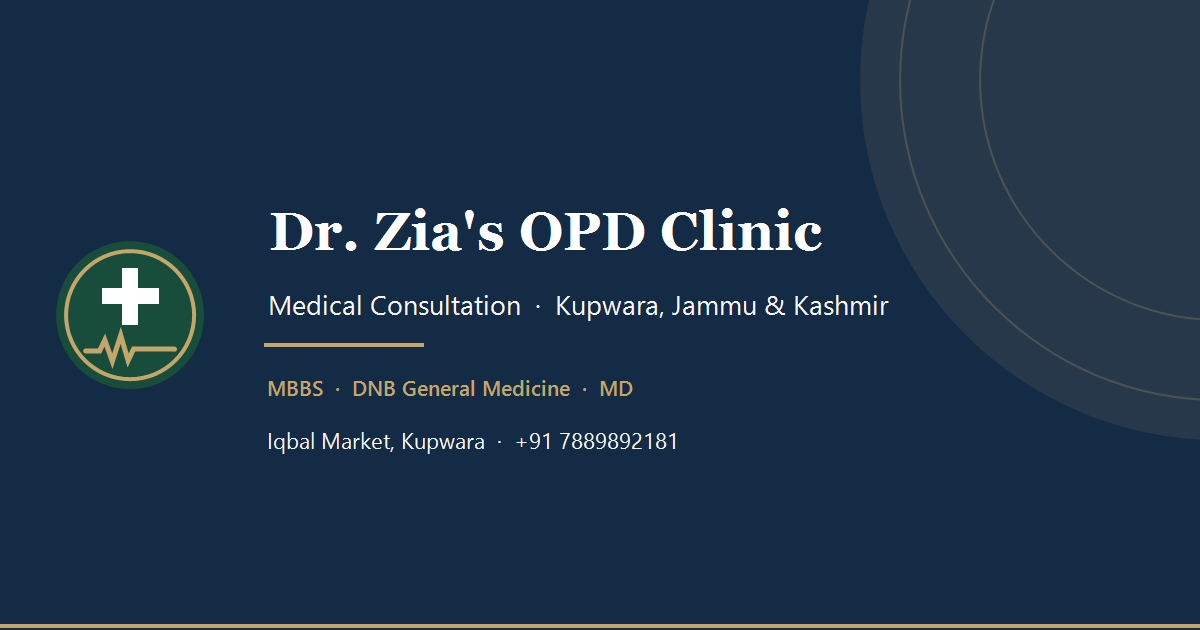
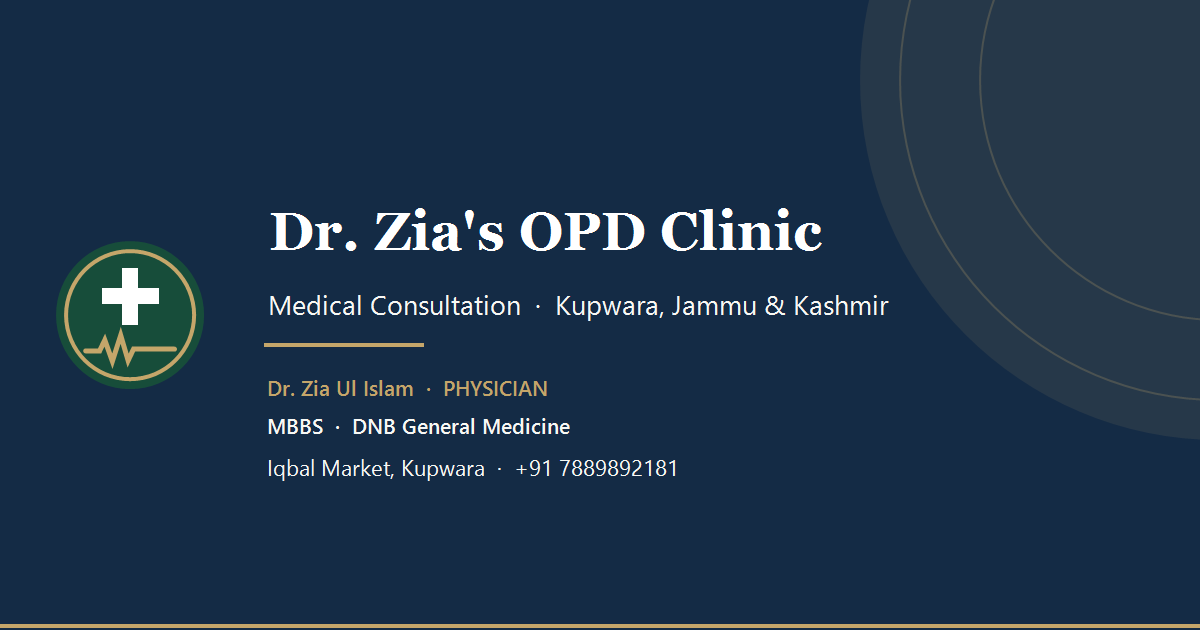
Doctor corrections: PHYSICIAN designation, MBBS | DNB General Medicine (MD removed), 7-day OPD schedule with Thu/Fri OFF, real clinic photo

Changed region(s): [[0.2158, 0.6635, 0.555, 0.754], [0.2158, 0.6032, 0.5242, 0.6333]]

diff --git a/src/components/OPDSchedule.tsx b/src/components/OPDSchedule.tsx
@@ -21,15 +21,15 @@ const periodIcon: Record<SessionPeriod, typeof Sunrise> = {
 };
 
 const chipTone: Record<SessionPeriod, string> = {
-  morning: 'bg-forest/10 text-forest',
-  evening: 'bg-navy/10 text-navy-soft',
-  day: 'bg-gold/25 text-[#8a6d33]',
+  morning: 'bg-forest/15 text-forest',
+  evening: 'bg-forest/15 text-forest',
+  day: 'bg-forest/15 text-forest',
 };
 
 const iconTone: Record<SessionPeriod, string> = {
   morning: 'text-forest',
-  evening: 'text-navy-soft',
-  day: 'text-[#8a6d33]',
+  evening: 'text-forest',
+  day: 'text-forest',
 };
 
 const legend: { period: SessionPeriod; label: string }[] = [
@@ -80,7 +80,7 @@ export function OPDSchedule() {
                 <Clock size={16} className="text-forest" aria-hidden="true" />
                 This week&rsquo;s schedule
               </h3>
-              <ul className="hidden flex-wrap gap-2 sm:flex" aria-hidden="true">
+              <ul className="flex flex-wrap gap-2" aria-hidden="true">
                 {legend.map(({ period, label }) => {
                   const Icon = periodIcon[period];
                   return (
@@ -93,6 +93,9 @@ export function OPDSchedule() {
                     </li>
                   );
                 })}
+                <li className="flex items-center gap-1.5 rounded-full border border-line bg-[#e9ebe6] px-3 py-1.5 text-[0.75rem] font-bold tracking-[0.1em] text-ink/55 uppercase">
+                  OFF
+                </li>
               </ul>
             </div>
 
@@ -123,7 +126,7 @@ export function OPDSchedule() {
                     <tr
                       key={day.index}
                       className={`border-b border-line/80 last:border-b-0 ${
-                        isToday ? 'bg-gold/15' : ''
+                        isToday ? 'bg-gold/15' : day.off ? 'bg-[#eff0ec]' : ''
                       }`}
                     >
                       <th
@@ -146,13 +149,18 @@ export function OPDSchedule() {
                         )}
                       </th>
                       <td className="py-4 pr-5 pl-1 align-top">
-                        <ul className="flex flex-wrap gap-2">
+                        {day.off ? (
+                          <span className="inline-flex items-center rounded-full border border-line bg-[#e9ebe6] px-4 py-1.5 text-[0.78rem] font-bold tracking-[0.14em] text-ink/55 uppercase">
+                            OFF
+                          </span>
+                        ) : (
+                          <ul className="flex flex-wrap gap-2">
                             {day.sessions.map((session) => {
                               const Icon = periodIcon[session.period];
                               return (
                                 <li
                                   key={session.period}
-                                  className="flex items-center gap-2.5 rounded-full border border-line bg-white px-3.5 py-1.5 text-[0.83rem] font-medium text-navy"
+                                  className="flex items-center gap-2.5 rounded-full border border-forest/25 bg-forest/[0.07] px-3.5 py-1.5 text-[0.83rem] font-medium text-navy"
                                 >
                                   <span
                                     aria-hidden="true"
@@ -163,12 +171,13 @@ export function OPDSchedule() {
                                     <Icon size={13} strokeWidth={2.2} />
                                   </span>
                                   {periodLabel[session.period]}
-                                  <span aria-hidden="true" className="h-3.5 w-px bg-line" />
+                                  <span aria-hidden="true" className="h-3.5 w-px bg-forest/30" />
                                   <span className="font-semibold text-ink">{session.time}</span>
                                 </li>
                               );
                             })}
                           </ul>
+                        )}
                       </td>
                     </tr>
                   );

diff --git a/src/data/clinic.ts b/src/data/clinic.ts
@@ -8,9 +8,10 @@ export const clinic = {
   tagline: 'YOUR HEALTH, OUR PRIORITY',
   doctor: {
     name: 'Dr. Zia Ul Islam',
-    qualifications: ['MBBS', 'DNB General Medicine', 'MD'],
-    qualificationsLine: 'MBBS · DNB General Medicine · MD',
-    qualificationsPipe: 'MBBS | DNB General Medicine | MD',
+    designation: 'Physician',
+    qualifications: ['MBBS', 'DNB General Medicine'],
+    qualificationsLine: 'MBBS · DNB General Medicine',
+    qualificationsPipe: 'MBBS | DNB General Medicine',
   },
   address: {
     street: 'Iqbal Market',
@@ -33,7 +34,7 @@ export const clinic = {
       "Consult Dr. Zia Ul Islam at Dr. Zia's OPD Clinic, conveniently located at Iqbal Market, Kupwara.",
     locationLabel: 'Iqbal Market, Kupwara',
   },
-  notice: 'Please call the clinic before visiting to confirm consultation availability.',
+  notice: 'Please confirm consultation availability by contacting the clinic before visiting.',
   disclaimer:
     'Information on this website is for general guidance. Please contact the clinic to confirm consultation availability.',
   whatsappIntro:
@@ -125,8 +126,9 @@ export const services: Service[] = [
 ];
 
 /* --------------------------------------------------------------------------
-   Weekly OPD schedule
-   Source: regular weekly timetable. No special/one-off appointment dates.
+   Weekly OPD schedule (all seven days)
+   Source: doctor-confirmed weekly timetable (Nov 2026).
+   Thursday and Friday are OFF. No special/one-off appointment dates.
    -------------------------------------------------------------------------- */
 
 export type SessionPeriod = 'morning' | 'evening' | 'day';
@@ -142,6 +144,8 @@ export interface DaySchedule {
   day: string;
   shortDay: string;
   sessions: DaySession[];
+  /** True when the clinic holds no OPD on this day. */
+  off?: true;
 }
 
 const MORNING: DaySession = { period: 'morning', time: '08:00 AM – 09:45 AM' };
@@ -151,6 +155,8 @@ export const weeklySchedule: DaySchedule[] = [
   { index: 1, day: 'Monday', shortDay: 'Mon', sessions: [MORNING] },
   { index: 2, day: 'Tuesday', shortDay: 'Tue', sessions: [EVENING] },
   { index: 3, day: 'Wednesday', shortDay: 'Wed', sessions: [MORNING] },
+  { index: 4, day: 'Thursday', shortDay: 'Thu', sessions: [], off: true },
+  { index: 5, day: 'Friday', shortDay: 'Fri', sessions: [], off: true },
   {
     index: 6,
     day: 'Saturday',
@@ -183,7 +189,7 @@ export const faqs: FaqItem[] = [
   {
     question: 'What are the regular OPD timings?',
     answer:
-      'Monday, Wednesday and Saturday morning: 08:00 AM – 09:45 AM. Tuesday and Saturday evening: 04:30 PM – 06:30 PM. Sunday: 08:00 AM – 03:00 PM. Please call the clinic before visiting to confirm availability.',
+      'Monday, Wednesday and Saturday morning: 08:00 AM – 09:45 AM. Tuesday and Saturday evening: 04:30 PM – 06:30 PM. Sunday: 08:00 AM – 03:00 PM. Thursday and Friday are off. Please call the clinic before visiting to confirm availability.',
   },
   {
     question: 'How can I contact the clinic?',

diff --git a/index.html b/index.html
@@ -6,7 +6,7 @@
     <title>Dr. Zia's OPD Clinic | Medical Consultation in Kupwara</title>
     <meta
       name="description"
-      content="Visit Dr. Zia Ul Islam, MBBS, DNB General Medicine, MD, at Dr. Zia's OPD Clinic, Iqbal Market, Kupwara. View OPD timings and contact the clinic."
+      content="Visit Dr. Zia Ul Islam, Physician (MBBS, DNB General Medicine), at Dr. Zia's OPD Clinic, Iqbal Market, Kupwara. View OPD timings and contact the clinic."
     />
     <meta name="theme-color" content="#142B45" />
     <meta name="author" content="Dr. Zia's OPD Clinic" />
@@ -18,7 +18,7 @@
     <meta property="og:title" content="Dr. Zia's OPD Clinic | Medical Consultation in Kupwara" />
     <meta
       property="og:description"
-      content="Visit Dr. Zia Ul Islam, MBBS, DNB General Medicine, MD, at Dr. Zia's OPD Clinic, Iqbal Market, Kupwara. View OPD timings and contact the clinic."
+      content="Visit Dr. Zia Ul Islam, Physician (MBBS, DNB General Medicine), at Dr. Zia's OPD Clinic, Iqbal Market, Kupwara. View OPD timings and contact the clinic."
     />
     <meta property="og:image" content="/og-image.png" />
     <meta property="og:image:width" content="1200" />
@@ -30,7 +30,7 @@
     <meta name="twitter:title" content="Dr. Zia's OPD Clinic | Medical Consultation in Kupwara" />
     <meta
       name="twitter:description"
-      content="Visit Dr. Zia Ul Islam, MBBS, DNB General Medicine, MD, at Dr. Zia's OPD Clinic, Iqbal Market, Kupwara. View OPD timings and contact the clinic."
+      content="Visit Dr. Zia Ul Islam, Physician (MBBS, DNB General Medicine), at Dr. Zia's OPD Clinic, Iqbal Market, Kupwara. View OPD timings and contact the clinic."
     />
     <meta name="twitter:image" content="/og-image.png" />
 
@@ -48,7 +48,7 @@
         "@context": "https://schema.org",
         "@type": "MedicalClinic",
         "name": "Dr. Zia's OPD Clinic",
-        "description": "General medical consultation by Dr. Zia Ul Islam (MBBS, DNB General Medicine, MD) at Iqbal Market, Kupwara, Jammu & Kashmir.",
+        "description": "General medical consultation by Dr. Zia Ul Islam, Physician (MBBS, DNB General Medicine), at Iqbal Market, Kupwara, Jammu & Kashmir.",
         "telephone": "+917889892181",
         "address": {
           "@type": "PostalAddress",
@@ -59,7 +59,8 @@
         },
         "physician": {
           "@type": "Physician",
-          "name": "Dr. Zia Ul Islam"
+          "name": "Dr. Zia Ul Islam",
+          "jobTitle": "Physician"
         },
         "openingHoursSpecification": [
           {

diff --git a/src/components/Footer.tsx b/src/components/Footer.tsx
@@ -41,8 +41,14 @@ export function Footer() {
               </span>
             </span>
           </div>
-          <p className="mt-4 max-w-xs text-[0.92rem] leading-relaxed text-white/70">
-            {clinic.doctor.name} &mdash; {clinic.doctor.qualificationsLine}
+          <p className="mt-4 max-w-xs text-[0.95rem] font-semibold leading-relaxed text-white">
+            {clinic.doctor.name}
+          </p>
+          <p className="mt-1.5 text-[0.7rem] font-bold tracking-[0.18em] text-gold uppercase">
+            {clinic.doctor.designation}
+          </p>
+          <p className="mt-1 max-w-xs text-[0.85rem] leading-relaxed text-white/65">
+            {clinic.doctor.qualificationsLine}
           </p>
           <address className="mt-3 max-w-xs text-[0.92rem] leading-relaxed text-white/70 not-italic">
             {clinic.address.lines.map((line) => (
@@ -121,7 +127,9 @@ export function Footer() {
                 <span aria-hidden="true" className="text-white/40">
                   —
                 </span>{' '}
-                {group.sessions.map((s) => s.time).join(' & ')}
+                {group.sessions.length > 0
+                  ? group.sessions.map((s) => s.time).join(' & ')
+                  : 'OFF'}
               </li>
             ))}
           </ul>

diff --git a/src/components/DoctorProfile.tsx b/src/components/DoctorProfile.tsx
@@ -108,6 +108,9 @@ export function DoctorProfile() {
             <p className="mt-5 font-serif text-[1.6rem] leading-tight font-semibold text-forest">
               {clinic.doctor.name}
             </p>
+            <p className="mt-2 text-[0.8rem] font-bold tracking-[0.2em] text-navy/75 uppercase">
+              {clinic.doctor.designation}
+            </p>
           </Reveal>
 
           <Reveal delay={140}>
@@ -122,8 +125,9 @@ export function DoctorProfile() {
           <Reveal delay={200}>
             <div className="mt-6 max-w-xl space-y-4 text-[1.02rem] leading-relaxed text-ink">
               <p>
-                {clinic.doctor.name} is the consulting physician at {clinic.name}, located at{' '}
-                {clinic.address.singleLine}. He consults with patients as per the clinic&rsquo;s
+                {clinic.doctor.name} is a physician at {clinic.name}, located at{' '}
+                {clinic.address.singleLine}. Patients can visit the clinic for medical
+                consultation across a range of common health concerns, according to the
                 weekly OPD schedule.
               </p>
               <p>

diff --git a/src/components/Hero.tsx b/src/components/Hero.tsx
@@ -114,7 +114,10 @@ export function Hero() {
               <p className="font-serif text-lg leading-tight font-semibold text-navy">
                 {clinic.doctor.name}
               </p>
-              <p className="mt-1 text-[0.72rem] font-semibold tracking-[0.14em] text-forest uppercase">
+              <p className="mt-1.5 text-[0.7rem] font-bold tracking-[0.18em] text-forest uppercase">
+                {clinic.doctor.designation}
+              </p>
+              <p className="mt-1 text-[0.68rem] font-semibold tracking-[0.12em] text-ink/65 uppercase">
                 {clinic.doctor.qualificationsLine}
               </p>
             </div>

diff --git a/src/components/AppointmentEnquiry.tsx b/src/components/AppointmentEnquiry.tsx
@@ -316,7 +316,7 @@ export function AppointmentEnquiry() {
                       <option value="">Select a day…</option>
                       {weeklySchedule.map((day) => (
                         <option key={day.index} value={String(day.index)}>
-                          {day.day}
+                          {day.off ? `${day.day} — OFF` : day.day}
                         </option>
                       ))}
                     </select>

diff --git a/PROGRESS.md b/PROGRESS.md
@@ -43,7 +43,7 @@ still be open — close it.
 
 ## Spec-compliance pass (this session, after reconciliation)
 All required copy from the brief is now exact:
-- **About** h2 → "Meet Your Doctor" + name line + `MBBS | DNB General Medicine | MD` chip.
+- **About** h2 → "Meet Your Doctor" + name line + designation `PHYSICIAN` + `MBBS | DNB General Medicine` chip.
 - **Services** h2 → "Medical Consultation" + supporting "Medical consultation for a range of common health conditions."
 - **Timings** h2 → "Clinic Hours & OPD Schedule" + supporting "Plan your visit according to the regular consultation schedule."
 - **Enquiry** h2 → "Plan Your Visit" (eyebrow now "Appointment Enquiry"); field labels renamed to spec:
@@ -57,17 +57,32 @@ All required copy from the brief is now exact:
   in project files** (grep audit) — no poster/special timing anywhere.
 - `npm run build` + `npm run lint` pass; `vite preview` served HTML/og-image/favicon → 200.
 
-## Thursday & Friday removed (user request)
-Thursday and Friday are now **completely absent** from the site — no rows, no mentions:
-- `clinic.ts`: Thu/Fri rows deleted from `weeklySchedule`; `UNCONFIRMED`, `unconfirmedNote`,
-  `unconfirmedDays`, `isDayUnconfirmed` removed; FAQ answers no longer reference them.
-- `OPDSchedule.tsx`: unconfirmed-cells branch + second reading note removed.
-- `AppointmentEnquiry.tsx`: "— call to confirm" option suffix, inline unconfirmed notice and
-  WhatsApp "no confirmed timing" note removed (day list derives from `weeklySchedule`).
-- `Footer.tsx`: "No confirmed timing available" fallback removed (all groups have sessions).
-- `DoctorProfile.tsx`: expectation bullet reworded.
-- Verified by grep: zero `Thursday|Friday|Thu|Fri|confirmed timing|unconfirmed` matches in `src/`.
-  JSON-LD already listed only confirmed hours — unchanged.
+## Doctor corrections + real photo (latest update round)
+Applied from the doctor's supplied WhatsApp screenshots (weekly timetable photo, promo poster,
+clinic photograph of the doctor):
+- **Qualifications**: `MD` removed everywhere → `MBBS | DNB General Medicine`.
+  New designation **Physician** added (`clinic.doctor.designation`), shown uppercase "PHYSICIAN"
+  in the Hero name plate, About section and Footer. "Consultant" / "Consulting Physician"
+  removed (About intro rewritten per brief). Grep-verified: zero `MD|Consultant|consulting`
+  matches in `src/` + `index.html`.
+- **Schedule**: all **seven days** displayed; Thursday & Friday marked **OFF** (neutral grey
+  pill + subtle grey row tint, `off: true` in `weeklySchedule`). Saturday keeps BOTH sessions
+  (morning + evening). Available sessions use subtle forest-green pills
+  (`border-forest/25 bg-forest/[0.07]`, Sunrise/Sunset/Sun icons distinguish sessions);
+  legend now includes OFF and is visible on mobile too. Notice text updated to:
+  "Please confirm consultation availability by contacting the clinic before visiting."
+- **Photo**: `public/images/doctor.jpg` (880×1100, 4:5, ~119 KB) cropped from the supplied
+  clinic photograph by `make-photo.ps1` — no WhatsApp UI, no special dates. Used by Hero and
+  About (Portrait emblem fallback intact).
+- **SEO**: meta/OG/Twitter descriptions + JSON-LD description updated (Physician, no MD);
+  JSON-LD `jobTitle: "Physician"`; openingHoursSpecification unchanged (already correct).
+  `og-image.png` regenerated via `make-og.ps1` → "Dr. Zia Ul Islam · PHYSICIAN /
+  MBBS · DNB General Medicine" (navy corner pixel verified 20,43,69).
+- **Enquiry form**: day dropdown lists all 7 days; OFF days labelled "Thursday — OFF";
+  selecting one offers the Flexible session option.
+- FAQ timings answer now states "Thursday and Friday are off."
+- **Not used from the poster**: special appointment date "Sunday 23 August 2026" and its
+  8:30 AM–4:00 PM timing — deliberately excluded everywhere (grep-verified).
 
 ## Notes on concurrent edits (19:17–19:19, another session/user)
 - `src/data/clinic.ts`: icon key `'lungs'` → **`'wind'`** (lucide-react 1.x has no `Lung` icon) — adopted in `Services.tsx`.
